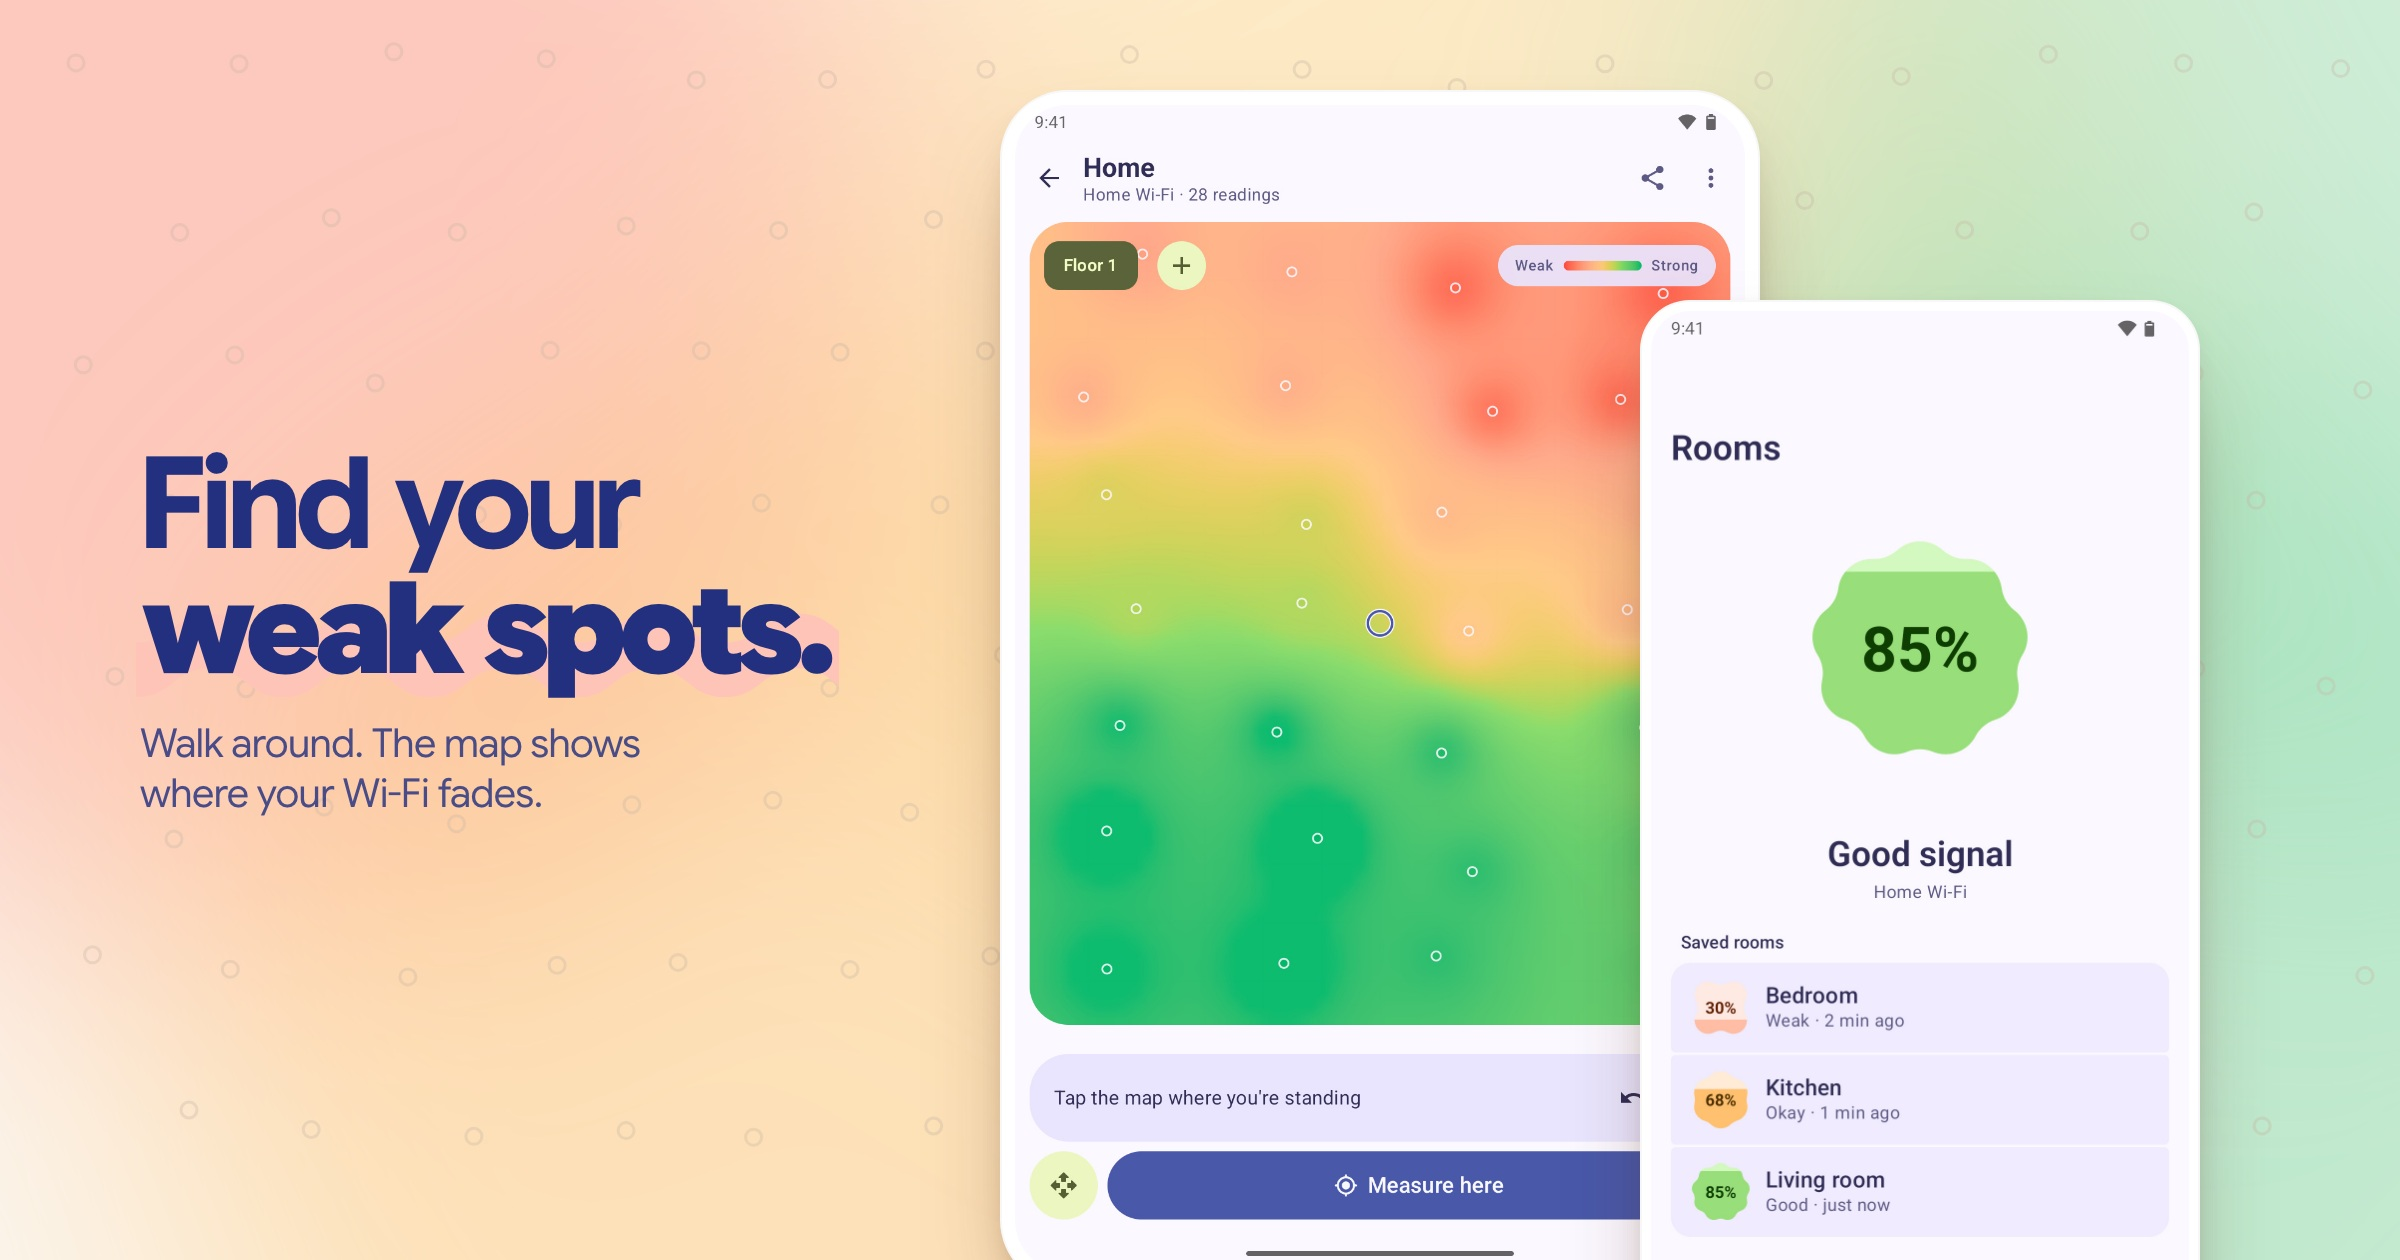
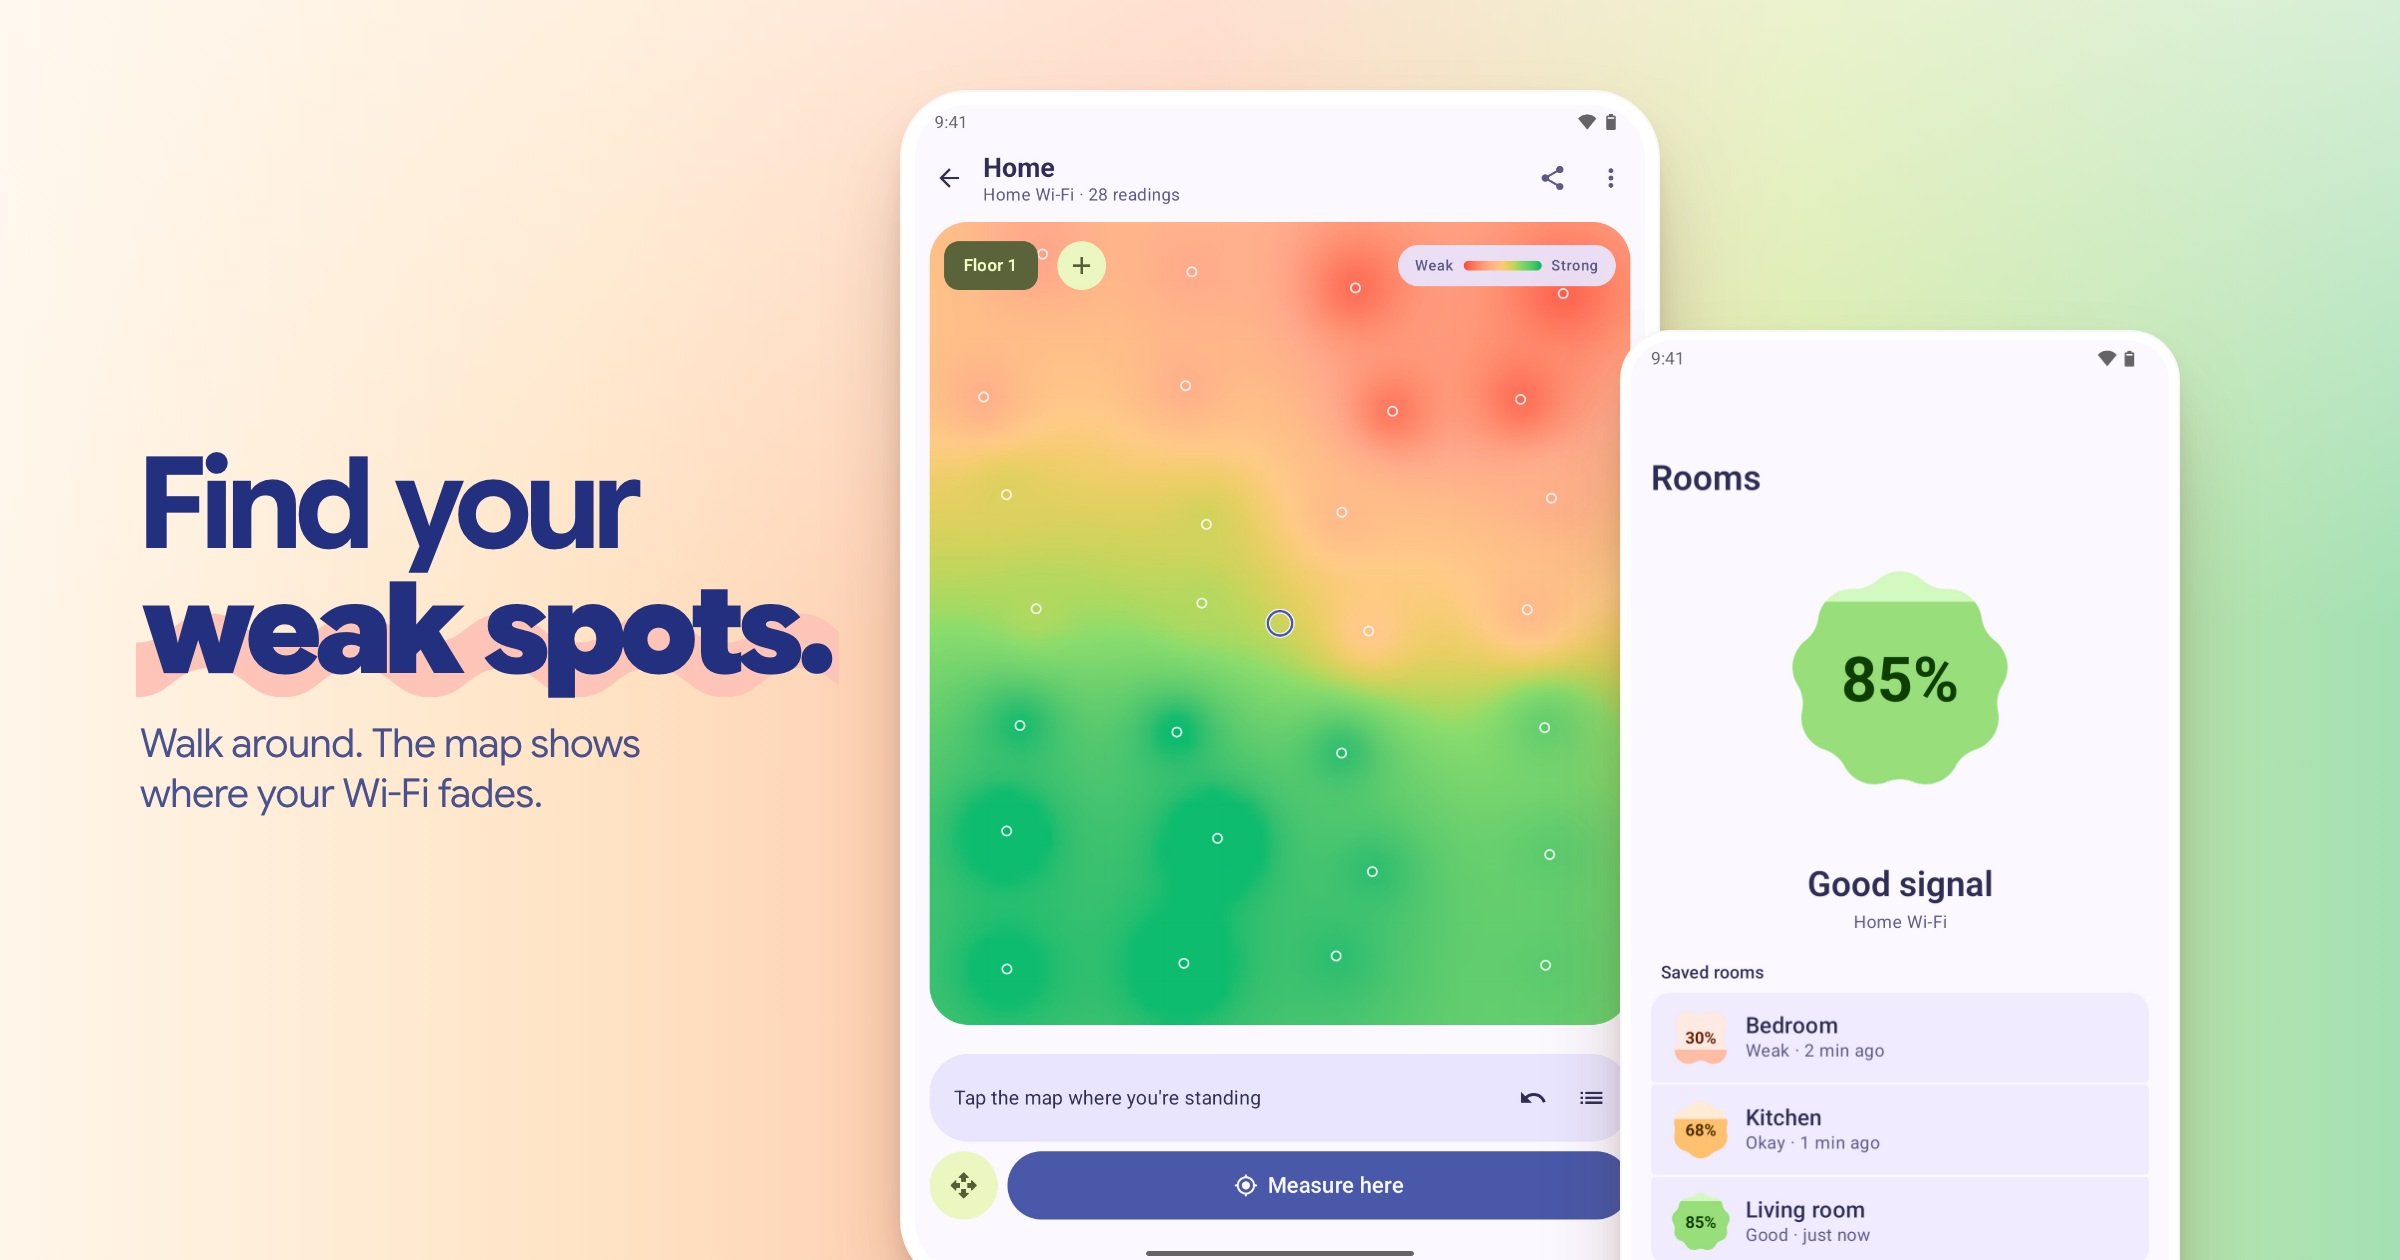
README art on the store cards' clean gradient; the map shows whole beside Rooms
Blurred blobs and reading-point dots give way to one gradient slice per image, light where the words sit, so the
'weak spots' wave reads. The map image spreads the tablet and the Rooms phone so the whole map is visible.

diff --git a/store-listing/theme.js b/store-listing/theme.js
@@ -1,6 +1,5 @@
 // WiFi Weakspot: every image sits on the app's own coverage map, a soft field of signal colours with the map's
 // reading points over it.
-const random = seed => () => ((seed = (seed * 16807) % 2147483647) - 1) / 2147483646;
 
 // The app's verdict badge: a scalloped shape in the verdict's colour with the percentage inside.
 const cookie = (cx, cy, r, colour, label) => {
@@ -9,17 +8,14 @@ const cookie = (cx, cy, r, colour, label) => {
   return `<path d="M${pts.join('L')}Z" fill="${colour}"/><text x="${cx}" y="${cy + r * .26}" text-anchor="middle" font-family="Google Sans Flex" font-weight="760" font-size="${r * .72}" fill="#fff">${label}</text>`;
 };
 
-// README art sits on the app's own coverage-map colours: a soft field from weak coral through amber to strong
-// green, blurred like the map, with the map's reading points scattered over it.
-function heatField(W, H, slide) {
-  const blobs = slide.field || [[.1, .2, '#ff8a78'], [.35, .85, '#ffc46b'], [.62, .25, '#ffd98a'], [.85, .8, '#6fd6a0'], [1.0, .15, '#8fe0b4']];
-  // The map's reading points: a loose grid, each point a small ring, exactly as the coverage map draws them.
-  const next = random(W + (slide.file || '').length * 31);
-  let dots = '';
-  for (let y = 70; y < H; y += 150) for (let x = 60 + (y / 150 % 2) * 75; x < W; x += 150)
-    dots += `<circle cx="${(x + (next() - .5) * 40).toFixed(1)}" cy="${(y + (next() - .5) * 40).toFixed(1)}" r="8" fill="none" stroke="#c9b8a6" stroke-opacity=".35" stroke-width="3"/>`;
-  return `<defs><filter id="soft" x="-50%" y="-50%" width="200%" height="200%"><feGaussianBlur stdDeviation="160"/></filter></defs>
-    <rect width="${W}" height="${H}" fill="#fbf6ef"/><g filter="url(#soft)">${blobs.map(([x, y, c]) => `<circle cx="${W * x}" cy="${H * y}" r="${H * .55}" fill="${c}" fill-opacity=".42"/>`).join('')}</g>${dots}`;
+// README art uses the store cards' clean gradient, one slice of the signal scale per image, light on the side the
+// words sit, with the same soft light from the top.
+function wash(W, H, slide) {
+  const colours = slide.wash || ['#fff3df', '#ffd8a8', '#ffb9a0'];
+  const stops = colours.map((c, i) => `<stop offset="${(i / (colours.length - 1)).toFixed(3)}" stop-color="${c}"/>`).join('');
+  return `<defs><linearGradient id="wash" x1="0" y1="0" x2="1" y2="0">${stops}</linearGradient>
+    <linearGradient id="light" x1="0" y1="0" x2="0" y2="1"><stop offset="0" stop-color="#fffaf3" stop-opacity=".55"/><stop offset=".5" stop-color="#fffaf3" stop-opacity="0"/></linearGradient></defs>
+    <rect width="${W}" height="${H}" fill="url(#wash)"/><rect width="${W}" height="${H}" fill="url(#light)"/>`;
 }
 
 // Store cards are one walk through the house: a single gradient in the coverage map's own colours runs across the
@@ -36,7 +32,7 @@ function walk(W, H, index, count) {
 
 export default {
   art({W, H, index, slide, slides}) {
-    if (W === 2400 && H === 1260) return heatField(W, H, slide);
+    if (W === 2400 && H === 1260) return wash(W, H, slide);
     return walk(W, H, index, slides.length);
   },
 

diff --git a/store-listing/theme.css b/store-listing/theme.css
@@ -41,10 +41,10 @@ header p{margin:26px 0 0;font-size:40px;line-height:1.24;font-weight:400;letter-
 .readme header p{font-size:40px;line-height:1.25;white-space:pre-line}
 .readme .device{background:#ffffff;box-shadow:inset 0 0 0 2px #00000008,0 50px 100px -40px #5a321e99,0 14px 30px -14px #5a321e44}
 /* Hero: the headline on the left, the full coverage map on a portrait tablet, the room comparison in front. */
-.readme .hero header{left:140px;right:auto;top:0;bottom:0;width:800px;display:flex;flex-direction:column;justify-content:center}
+.readme .hero header{left:140px;right:auto;top:0;bottom:0;width:700px;display:flex;flex-direction:column;justify-content:center}
 .readme .hero h1{font-size:128px}
-.readme .hero .slate{--bezel:16px;--radius:44px;left:1000px;top:90px;width:760px}
-.readme .hero .front{--bezel:12px;--radius:58px;left:1640px;top:300px;width:560px;z-index:4}
+.readme .hero .slate{--bezel:16px;--radius:44px;left:900px;top:90px;width:760px}
+.readme .hero .front{--bezel:12px;--radius:58px;left:1620px;top:330px;width:560px;z-index:4}
 /* Wide: a centred headline, then the channel waves on a landscape tablet and the signal walk on a phone in front. */
 .readme .wide header{left:0;right:0;top:60px;text-align:center}
 .readme .wide h1{font-size:104px}
